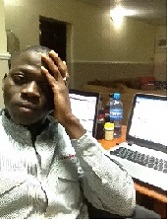
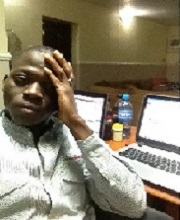
Further additions to ourteam.html

diff --git a/Pupilate.Web/Pupilate.Web/ourteam.html b/Pupilate.Web/Pupilate.Web/ourteam.html
@@ -171,7 +171,7 @@
                             <div class="panel-body">
                                 <h3 class="section-title no-margin-top"> Ijaduola Olamide <small class="pull-right"> Software Engineer </small><div class="clearfix"></div></h3>
                                 <div class="clearfix"></div>
-                                <img src="../assets/img/demo/t1.jpg" alt="" class="alignleft imageborder">
+                                <img src="../assets/img/demo/ola.jpg" alt="" class="alignleft imageborder">
                                 <p class="no-margin-top" align="justify">Olamide O. IJADUOLA holds a First Class (Hons.) in Information Technology from the University of Education, Winneba Ghana [BlueCrest College, Accra] and DNIIT (Hons.) Software Engineering [Java Technologies] from NIIT.</p>
                                 <p align="justify">He perfectly combines his astute expertise in Database administration [MS SQL, Oracle and MySQL], Software development [Java and .Net], Web development [PHP and ASP.Net] with a team-working spirit, professionalism, purpose driven adaptability and self-motivation, loyalty, honesty and fear of God.</p>
                                 <div class="clearfix"></div>
@@ -179,8 +179,8 @@
                                 <a href="#" class="social-icon-ar sm google-plus animated fadeInDown"><i class="fa fa-google-plus"></i></a>
                                 <a href="https://www.facebook.com/holythirst" class="social-icon-ar sm facebook animated fadeInDown"><i class="fa fa-facebook"></i></a>
                                 <a href="#" class="social-icon-ar sm instagram animated fadeInDown"><i class="fa fa-instagram"></i></a>
-                                <a href="#" class="social-icon-ar sm pinterest animated fadeInDown"><i class="fa fa-pinterest"></i></a>
-                                <a href="#" class="social-icon-ar sm linkedin animated fadeInDown"><i class="fa fa-linkedin"></i></a>
+                                <a href="https://www.pinterest.com/holythirst/" class="social-icon-ar sm pinterest animated fadeInDown"><i class="fa fa-pinterest"></i></a>
+                                <a href="https://ng.linkedin.com/in/ijaduola-olamide-49603443" class="social-icon-ar sm linkedin animated fadeInDown"><i class="fa fa-linkedin"></i></a>
                                 <a href="#" class="social-icon-ar sm git animated fadeInDown"><i class="fa fa-github"></i></a>
                             </div>
                         </div>
@@ -192,7 +192,7 @@
                             <div class="panel-body">
                                 <h3 class="section-title no-margin-top"> Ahmed Fauk Monkwo <small class="pull-right"> Software Engineer </small><div class="clearfix"></div></h3>
                                 <div class="clearfix"></div>
-                                <img src="../assets/img/demo/t2.jpg" alt="" class="alignleft imageborder">
+                                <img src="../assets/img/demo/maf.jpg" alt="" class="alignleft imageborder">
                                 <p class="no-margin-top">Lorem ipsum dolor sit amet, consectetur adipisicing elit. Quis, explicabo, impedit, voluptatibus fugiat saepe mollitia modi ab itaque cumque perferendis aut ducimus voluptas enim. Aspernatur, nobis id molestias! Quas, beatae commodi voluptates qui sed sint eos magni perferendis! Ea, necessitatibus.</p>
                                 <p>Lorem ipsum dolor sit amet, consectetur adipisicing elit. Vitae, illum dolor alias provident officiis. Neque at accusamus quis provident delectus commodi voluptates.</p>
                                 <div class="clearfix"></div>
